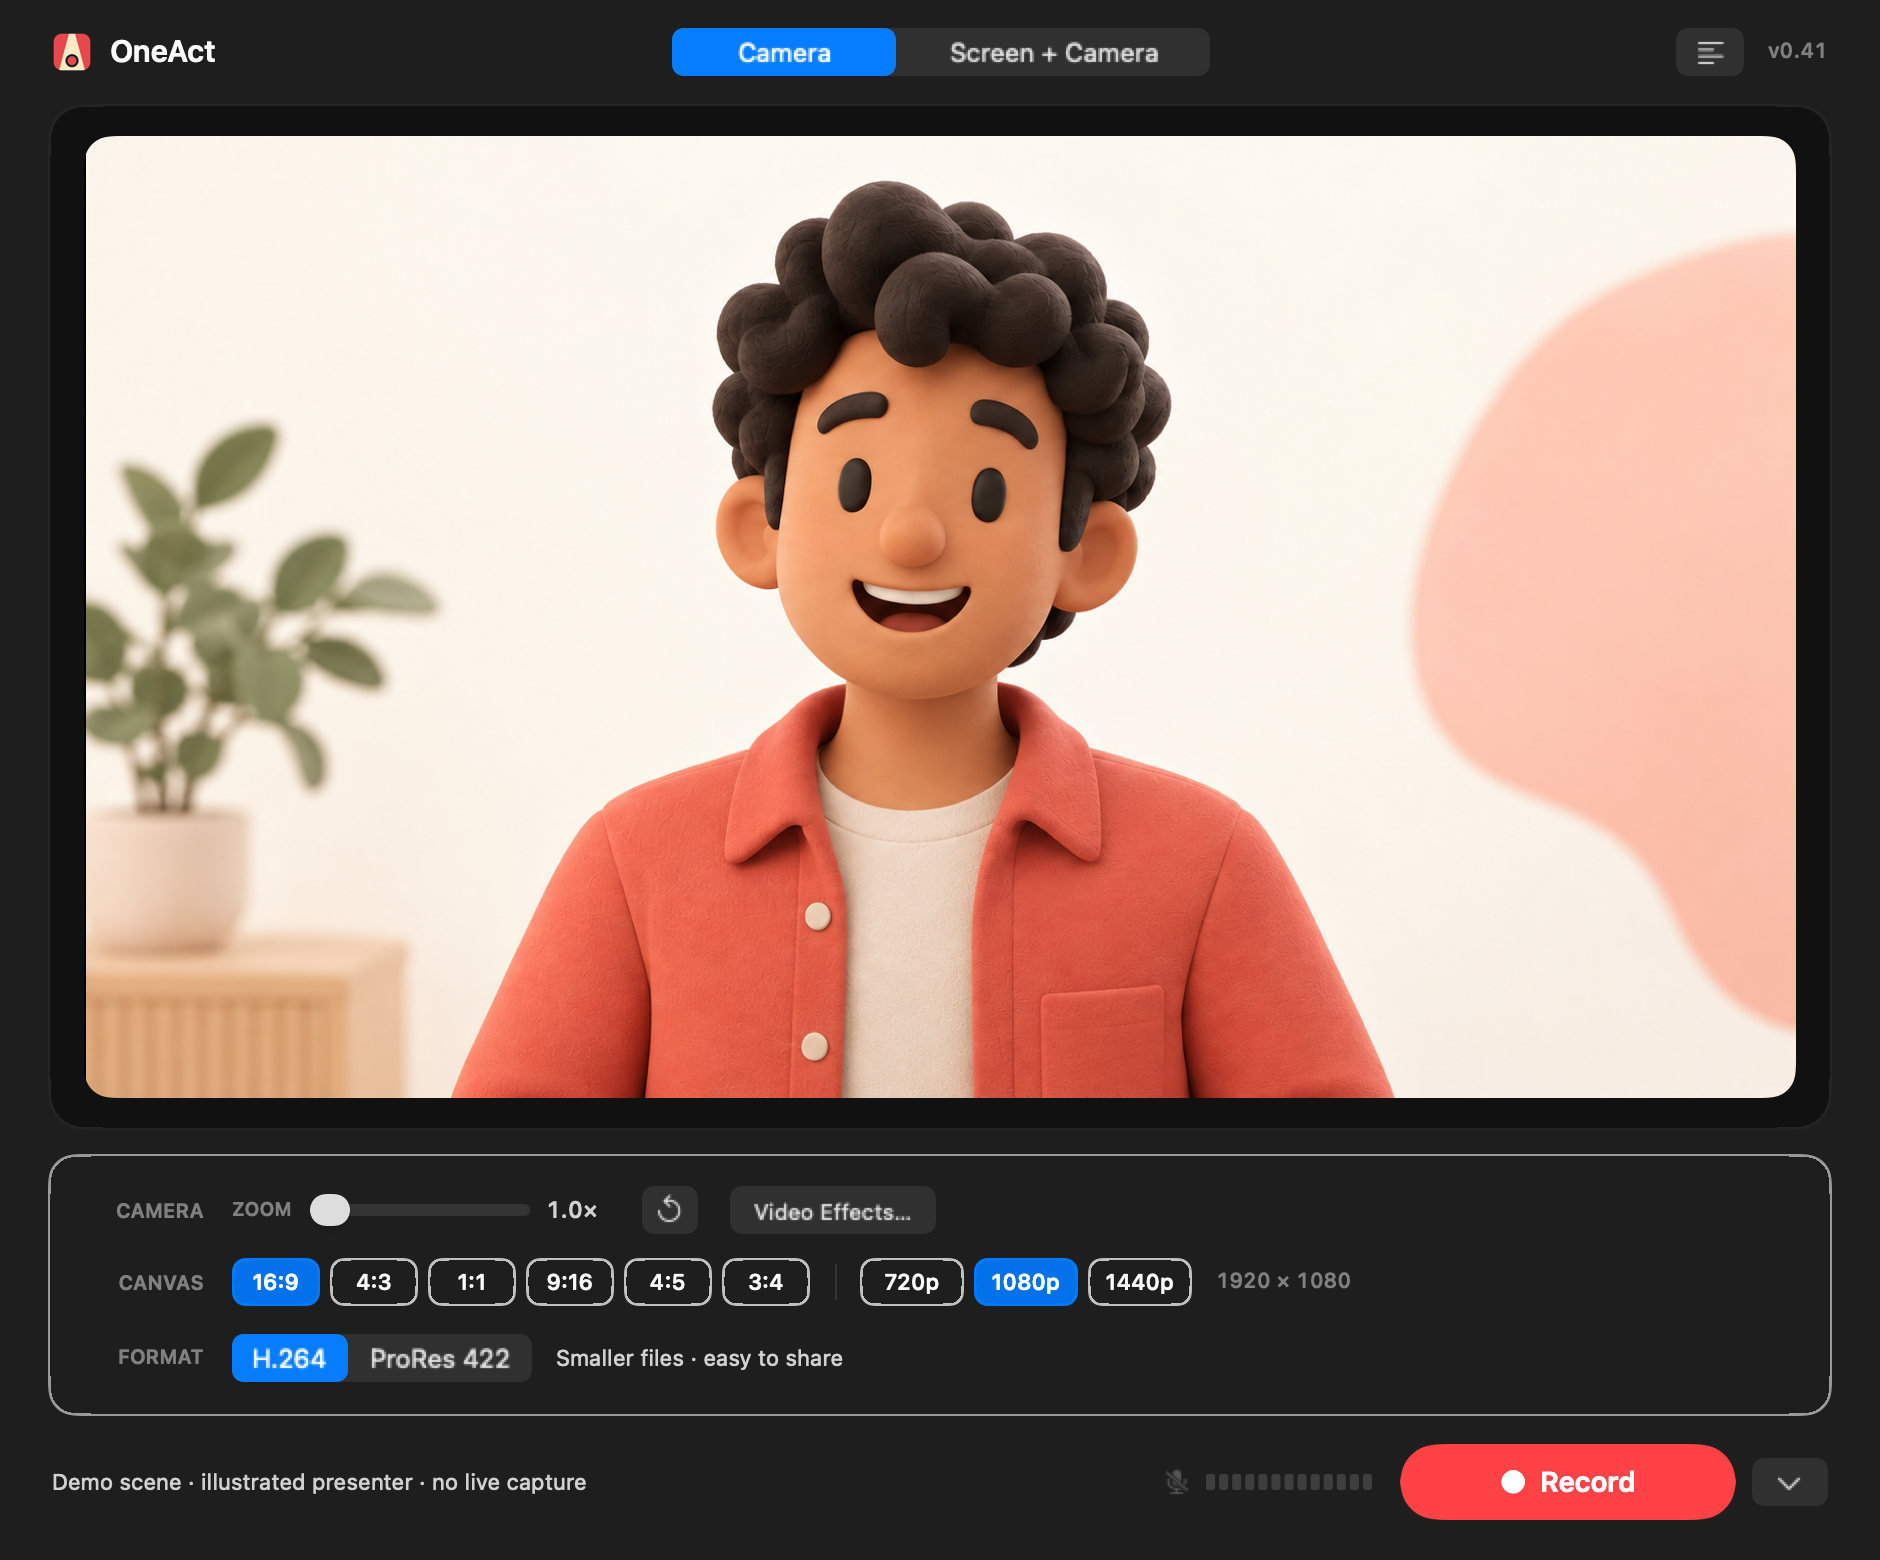
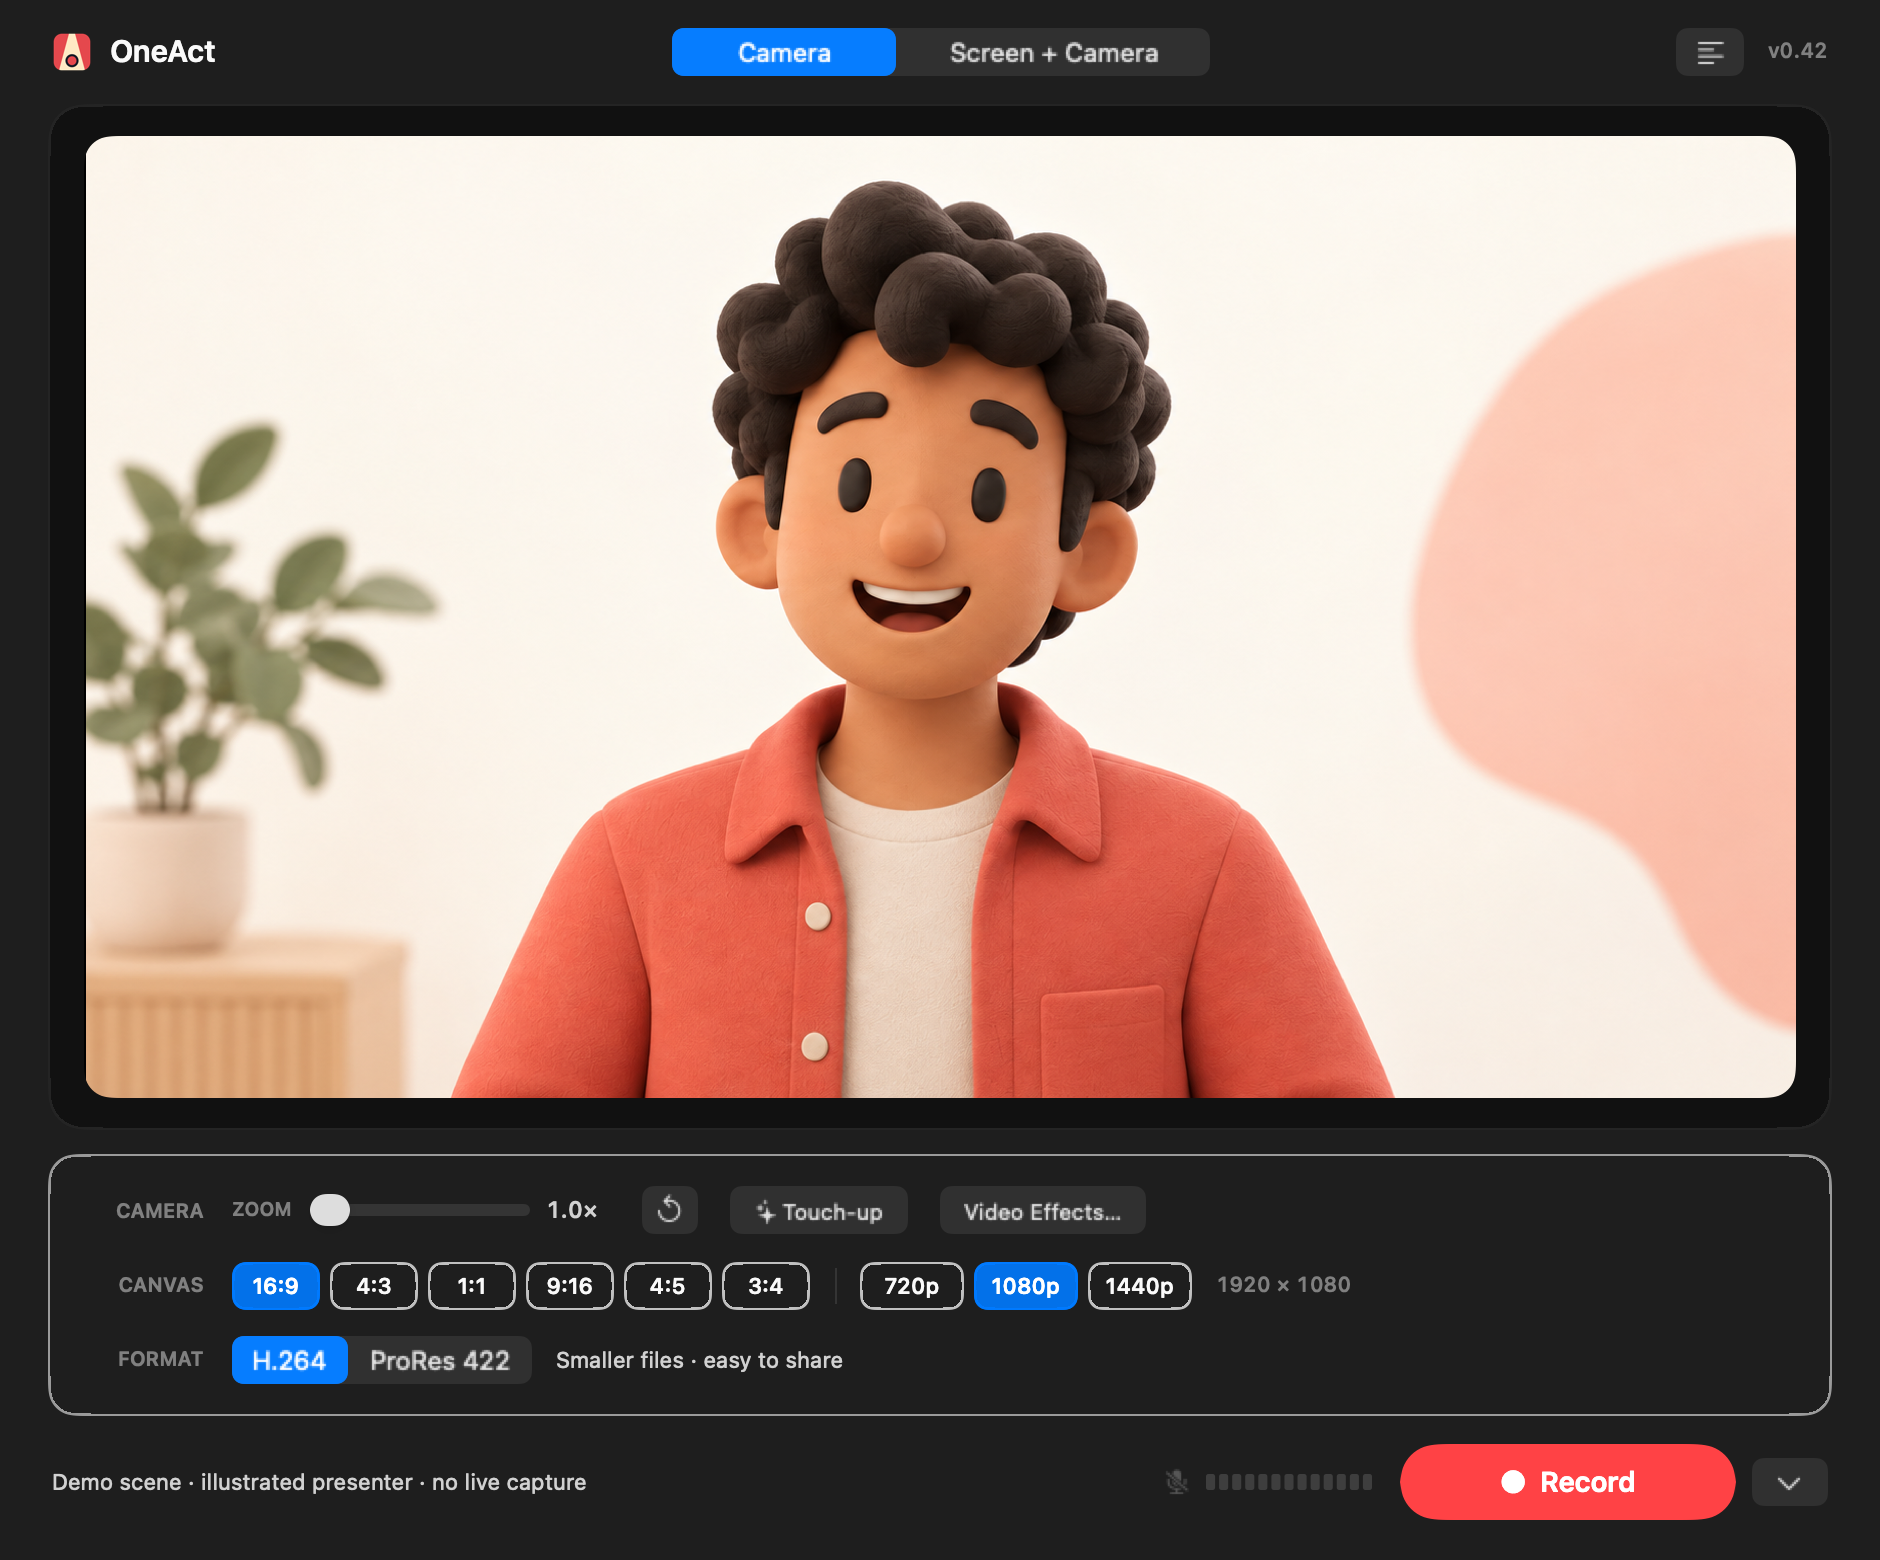
Show the 0.42 interface in the website screenshots
The three homepage previews still showed 0.41: no Touch-up button, the
old teleprompter bar with its backdrop swatches, and the version badge.
They are rendered again from 0.42 in dark appearance, so the prompter
shows the Follow voice pill and both sliders. The image URLs move to
?v=0.42 so browsers drop the cached 0.41 pictures.

Changed region(s): [[0.1234, 0.7692, 0.7096, 0.8923], [0.0617, 0.8615, 0.0926, 0.8923], [0.0617, 0.8, 0.0926, 0.8308]]

diff --git a/website/index.html b/website/index.html
@@ -138,7 +138,7 @@
         </div>
         <div class="demo-panel" id="demo-camera" aria-labelledby="camera-caption">
           <figure class="shot">
-            <img src="assets/demo-camera.png?v=0.41" alt="OneAct in Camera mode, with a fictional clay presenter centered against a warm studio background." width="940" height="780">
+            <img src="assets/demo-camera.png?v=0.42" alt="OneAct in Camera mode, with a fictional clay presenter centered against a warm studio background." width="940" height="780">
             <figcaption>
               <p id="camera-caption">Set your frame, add a gentle touch-up, and press Record.</p>
             </figcaption>
@@ -146,7 +146,7 @@
         </div>
         <div class="demo-panel" id="demo-screen" aria-labelledby="screen-title">
           <figure class="shot">
-            <img src="assets/hero-demo.png?v=0.41" alt="OneAct in Screen + Camera mode, showing a presentation with a fictional illustrated presenter overlaid in the lower right." width="940" height="780" loading="lazy">
+            <img src="assets/hero-demo.png?v=0.42" alt="OneAct in Screen + Camera mode, showing a presentation with a fictional illustrated presenter overlaid in the lower right." width="940" height="780" loading="lazy">
             <figcaption>
               <h3 id="screen-title">Show the work. Stay in the picture.</h3>
               <p>When your story needs a demonstration, bring a display, app, or window into the shot. Walk through your work with your camera alongside it.</p>
@@ -155,7 +155,7 @@
         </div>
         <div class="demo-panel" id="demo-prompter" aria-labelledby="prompter-title">
           <figure class="shot">
-            <img src="assets/demo-teleprompter.png?v=0.41" alt="OneAct's Screen + Camera workspace with the real teleprompter panel open above the preview, showing an English sample script and reading controls." width="940" height="780" loading="lazy">
+            <img src="assets/demo-teleprompter.png?v=0.42" alt="OneAct's Screen + Camera workspace with the real teleprompter panel open above the preview, showing an English sample script and reading controls." width="940" height="780" loading="lazy">
             <figcaption>
               <h3 id="prompter-title">Your script keeps up with you.</h3>
               <p>Turn on Follow voice and the teleprompter listens as you read: it moves when you speak and waits when you pause or go off script. Your words stay above the canvas and out of the finished video.</p>
